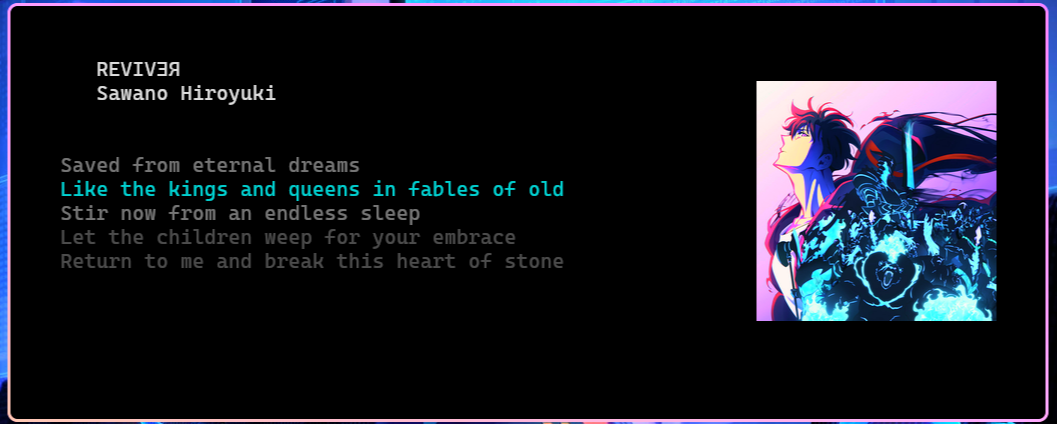
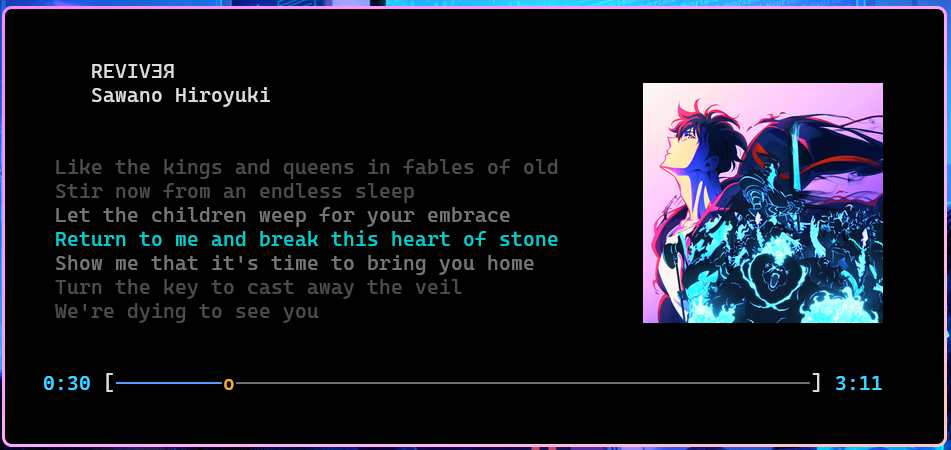
New feature: song progress bar

Changed region(s): [[0.0, 0.0, 1.0, 1.0], [0.6709, 0.184, 0.9453, 0.7665], [0.0915, 0.1226, 0.2744, 0.2453]]

diff --git a/src/karaoke.cpp b/src/karaoke.cpp
@@ -109,9 +109,6 @@ std::string findLRC(const std::string& title, const std::string& artist) {
     return "";
 }
 
-// === Limpeza controlada ===
-void clearScreen() { std::cout << "\033[2J\033[H"; }
-
 /**
  * Limpa apenas a área das letras e redesenha título/artista no topo.
  */
@@ -189,9 +186,7 @@ void clearLyricsArea(
     std::cout << meta.str() << std::flush;
 }
 
-void restoreFont() {
-    system("kitty @ set-font-size 0 2>/dev/null");
-}
+
 
 // === Impressão das letras com contexto e fade ===
 void printLyrics(
@@ -267,8 +262,148 @@ void printLyrics(
     std::cout << std::flush;
 }
 
+std::string formatTime(double seconds) {
+    if (seconds < 0) seconds = 0;
+    int totalSec = static_cast<int>(seconds);
+    int minutes = totalSec / 60;
+    int sec = totalSec % 60;
+    std::ostringstream oss;
+    oss << minutes << ":" << std::setw(2) << std::setfill('0') << sec;
+    return oss.str();
+}
+
+// === Desenha a barra de progresso musical ===
+void drawProgressBar(
+    double position,
+    double duration,
+    const std::unordered_map<std::string, std::string>& cfg
+) {
+    if (duration <= 0.0 || position < 0.0) return;
+
+    // ======= Lê configurações =======
+    bool enabled = cfg.count("progress.enabled") && cfg.at("progress.enabled") == "true";
+    if (!enabled) 
+        return;
+
+    int baseWidth = cfg.count("progress.width") ? std::stoi(cfg.at("progress.width")) : 40;
+    int maxWidth = cfg.count("progress.max_width") ? std::stoi(cfg.at("progress.max_width")) : 100;
+    bool resizable = cfg.count("progress.resizable") && cfg.at("progress.resizable") == "true";
+    int barY = cfg.count("progress.y") ? std::stoi(cfg.at("progress.y")) : 12;
+    int barX = cfg.count("progress.x") ? std::stoi(cfg.at("progress.x")) : 4;
+    std::string marker = cfg.count("progress.marker_char") ? cfg.at("progress.marker_char") : "o";
+
+    std::string colorPlayed    = cfg.count("progress.color_played")    ? cfg.at("progress.color_played")    : "cyan";
+    std::string colorRemaining = cfg.count("progress.color_remaining") ? cfg.at("progress.color_remaining") : "bright_black";
+    std::string colorMarker    = cfg.count("progress.color_marker")    ? cfg.at("progress.color_marker")    : "yellow";
+    std::string colorBrackets  = cfg.count("progress.color_brackets")  ? cfg.at("progress.color_brackets")  : "white";
+    std::string colorTime      = cfg.count("progress.color_time")      ? cfg.at("progress.color_time")      : "white";
+
+    // ======= Calcula largura dinâmica =======
+    struct winsize w;
+    ioctl(STDOUT_FILENO, TIOCGWINSZ, &w);
+    int termWidth = w.ws_col;
+
+    int barWidth = baseWidth;
+    if (resizable) {
+        int usable = std::max(10, termWidth - 20);
+        barWidth = std::min(usable, maxWidth);
+    }
+
+    // ======= Calcula progresso =======
+    double progress = position / duration;
+    if (progress < 0) progress = 0;
+    if (progress > 1) progress = 1;
+
+    int markerPos = static_cast<int>(progress * (barWidth - 1));
+
+    auto color = [&](const std::string& name) -> std::string {
+        auto rgb = [](int r, int g, int b) {
+            return "\033[38;2;" + std::to_string(r) + ";" +
+                   std::to_string(g) + ";" + std::to_string(b) + "m";
+        };
+
+        // ANSI padrão
+        static const std::unordered_map<std::string, std::string> ansi = {
+            {"black", "\033[30m"}, {"red", "\033[31m"}, {"green", "\033[32m"},
+            {"yellow", "\033[33m"}, {"blue", "\033[34m"}, {"magenta", "\033[35m"},
+            {"cyan", "\033[36m"}, {"white", "\033[37m"},
+            {"bright_black", "\033[90m"}, {"bright_red", "\033[91m"},
+            {"bright_green", "\033[92m"}, {"bright_yellow", "\033[93m"},
+            {"bright_blue", "\033[94m"}, {"bright_magenta", "\033[95m"},
+            {"bright_cyan", "\033[96m"}, {"bright_white", "\033[97m"}
+        };
+
+        auto it = ansi.find(name);
+        if (it != ansi.end()) return it->second;
+
+        // Tokyo Night, Dracula, Nord, etc
+        static const std::unordered_map<std::string, std::tuple<int,int,int>> themes = {
+            {"tokyo_blue", {122,162,247}}, {"tokyo_cyan", {125,207,255}}, {"tokyo_yellow", {224,175,104}},
+            {"tokyo_magenta", {187,154,247}}, {"tokyo_green", {158,206,106}},
+            {"dracula_pink", {255,121,198}}, {"dracula_yellow", {241,250,140}},
+            {"dracula_cyan", {139,233,253}}, {"nord_blue", {94,129,172}},
+            {"nord_cyan", {136,192,208}}, {"nord_yellow", {235,203,139}}
+        };
+
+        auto th = themes.find(name);
+        if (th != themes.end()) {
+            auto [r,g,b] = th->second;
+            return rgb(r,g,b);
+        }
+
+        // Hexa (#RRGGBB)
+        if (!name.empty() && name[0] == '#' && name.size() == 7) {
+            int r = std::stoi(name.substr(1, 2), nullptr, 16);
+            int g = std::stoi(name.substr(3, 2), nullptr, 16);
+            int b = std::stoi(name.substr(5, 2), nullptr, 16);
+            return rgb(r, g, b);
+        }
+
+        return "\033[0m";
+    };
+
+    // ======= Monta barra =======
+    std::string leftTime  = formatTime(position);
+    std::string rightTime = formatTime(duration);
+
+    std::ostringstream out;
+    out << "\033[" << barY << ";" << barX << "H"; 
+
+    //tempo inicial
+    out << color(colorTime) << leftTime << "\033[0m ";
+
+    //abre colchete
+    out << color(colorBrackets) << "[" << "\033[0m";
+
+    //parte tocada
+    out << color(colorPlayed);
+    for (int i = 0; i < markerPos; ++i) out << "-";
+    out << "\033[0m";
+
+    //marcador
+    out << color(colorMarker) << marker << "\033[0m";
+
+    //parte restante
+    out << color(colorRemaining);
+    for (int i = markerPos + 1; i < barWidth; ++i) out << "-";
+    out << "\033[0m";
+
+    //fecha colchete + tempo final
+    out << color(colorBrackets) << "]" << "\033[0m "
+        << color(colorTime) << rightTime << "\033[0m";
+
+    std::cout << out.str() << std::flush;
+}
+
+// === Limpeza controlada ===
+void clearScreen() { std::cout << "\033[2J\033[H"; }
+
 void restoreCursor() {
     std::cout << "\033[?25h" << std::flush;
+}
+
+void restoreFont() {
+    system("kitty @ set-font-size 0 2>/dev/null");
 }
 
 void handleSignal(int) {

diff --git a/src/main.cpp b/src/main.cpp
@@ -49,7 +49,7 @@ int main() {
         std::atexit(restoreFont);
     }
 
-    std::string title, artist, lrcFile, coverFile; // coverFile persistente
+    std::string title, artist, lrcFile, coverFile;
     std::vector<LyricLine> lyrics;
     size_t currentLine = 0;
 
@@ -96,7 +96,7 @@ int main() {
                 for (char &c : safeTitle)
                     if (!std::isalnum((unsigned char)c) && c != '_' && c != '-') c = '_';
 
-                coverFile = "../local/icons/" + safeTitle + "_cover.jpg"; // atualizado globalmente
+                coverFile = "../local/icons/" + safeTitle + "_cover.jpg";
 
                 if (!std::filesystem::exists(coverFile) || std::filesystem::file_size(coverFile) == 0) {
                     std::string cmd;
@@ -191,6 +191,11 @@ int main() {
             printLyrics(lyrics, currentLine, title, artist, cfg);
             currentLine++;
         }
+        
+        // ===== ATUALIZAÇÃO DA BARRA DE PROGRESSO =====
+        std::string durationStr = exec("playerctl --player=spotify metadata mpris:length");
+        double duration = durationStr.empty() ? 0.0 : std::stod(durationStr) / 1e6;
+        drawProgressBar(position, duration, cfg);
 
         // ===== TRATA REDIMENSIONAMENTO DE TERMINAL =====
         if (resized) {
@@ -218,6 +223,13 @@ int main() {
 
             clearLyricsArea(title, artist, cfg);
             printLyrics(lyrics, currentLine, title, artist, cfg);
+
+            bool resizable = cfg.count("progress.resizable") && cfg.at("progress.resizable") == "true";
+            if (resizable) {
+                std::string durationStr = exec("playerctl --player=spotify metadata mpris:length");
+                double duration = durationStr.empty() ? 0.0 : std::stod(durationStr) / 1e6;
+                drawProgressBar(position, duration, cfg);
+            }
         }
 
         lastPosition = position;

diff --git a/src/karaoke.h b/src/karaoke.h
@@ -21,14 +21,6 @@ std::vector<LyricLine> readLRC(const std::string& filename);
 // Procura arquivo LRC em várias combinações de título e artista
 std::string findLRC(const std::string& title, const std::string& artist); 
 
-void clearScreen();
-void clearLyricsArea(
-    const std::string& title = "",
-    const std::string& artist = "",
-    const std::unordered_map<std::string, std::string>& cfg = {}
-); 
-void restoreFont();
-
 // Mostra a linha atual e algumas linhas de contexto
 void printLyrics(
     const std::vector<LyricLine>& lyrics,
@@ -36,6 +28,24 @@ void printLyrics(
     const std::string& title,
     const std::string& artist,
     const std::unordered_map<std::string, std::string>& cfg);
+
+
+std::string formatTime(double seconds);
+
+void drawProgressBar(
+    double position,
+    double duration,
+    const std::unordered_map<std::string, std::string>& cfg
+);
+
+void clearScreen();
+
+void clearLyricsArea(
+    const std::string& title = "",
+    const std::string& artist = "",
+    const std::unordered_map<std::string, std::string>& cfg = {}
+); 
+void restoreFont();
 
 void restoreCursor();
 
